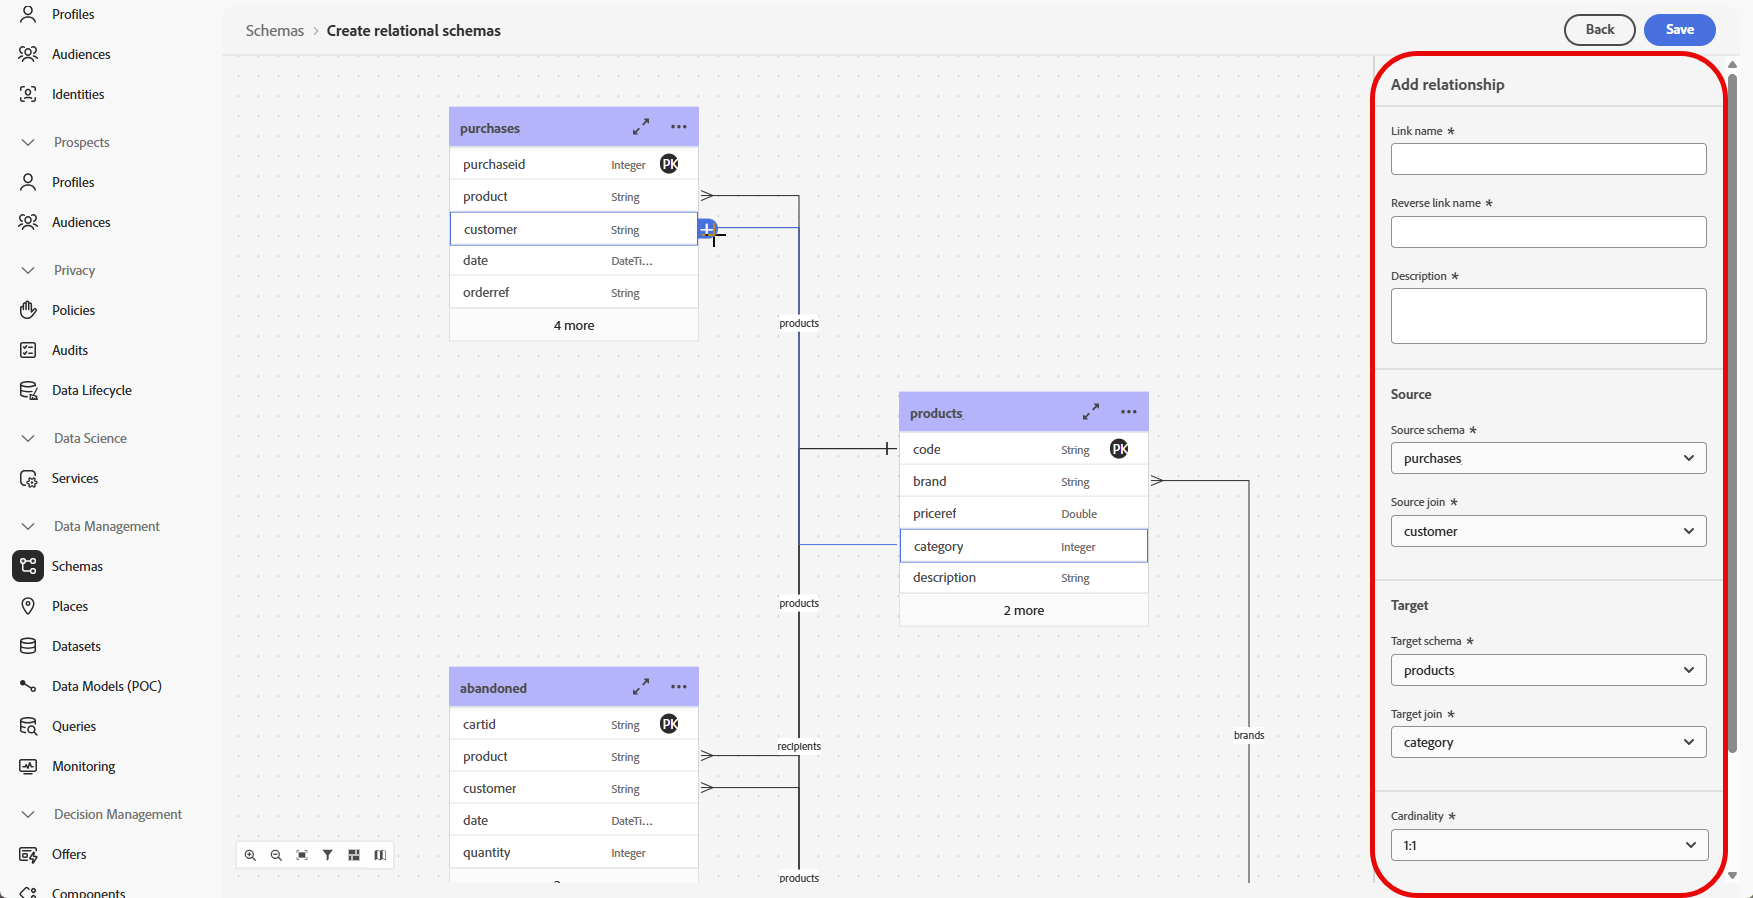
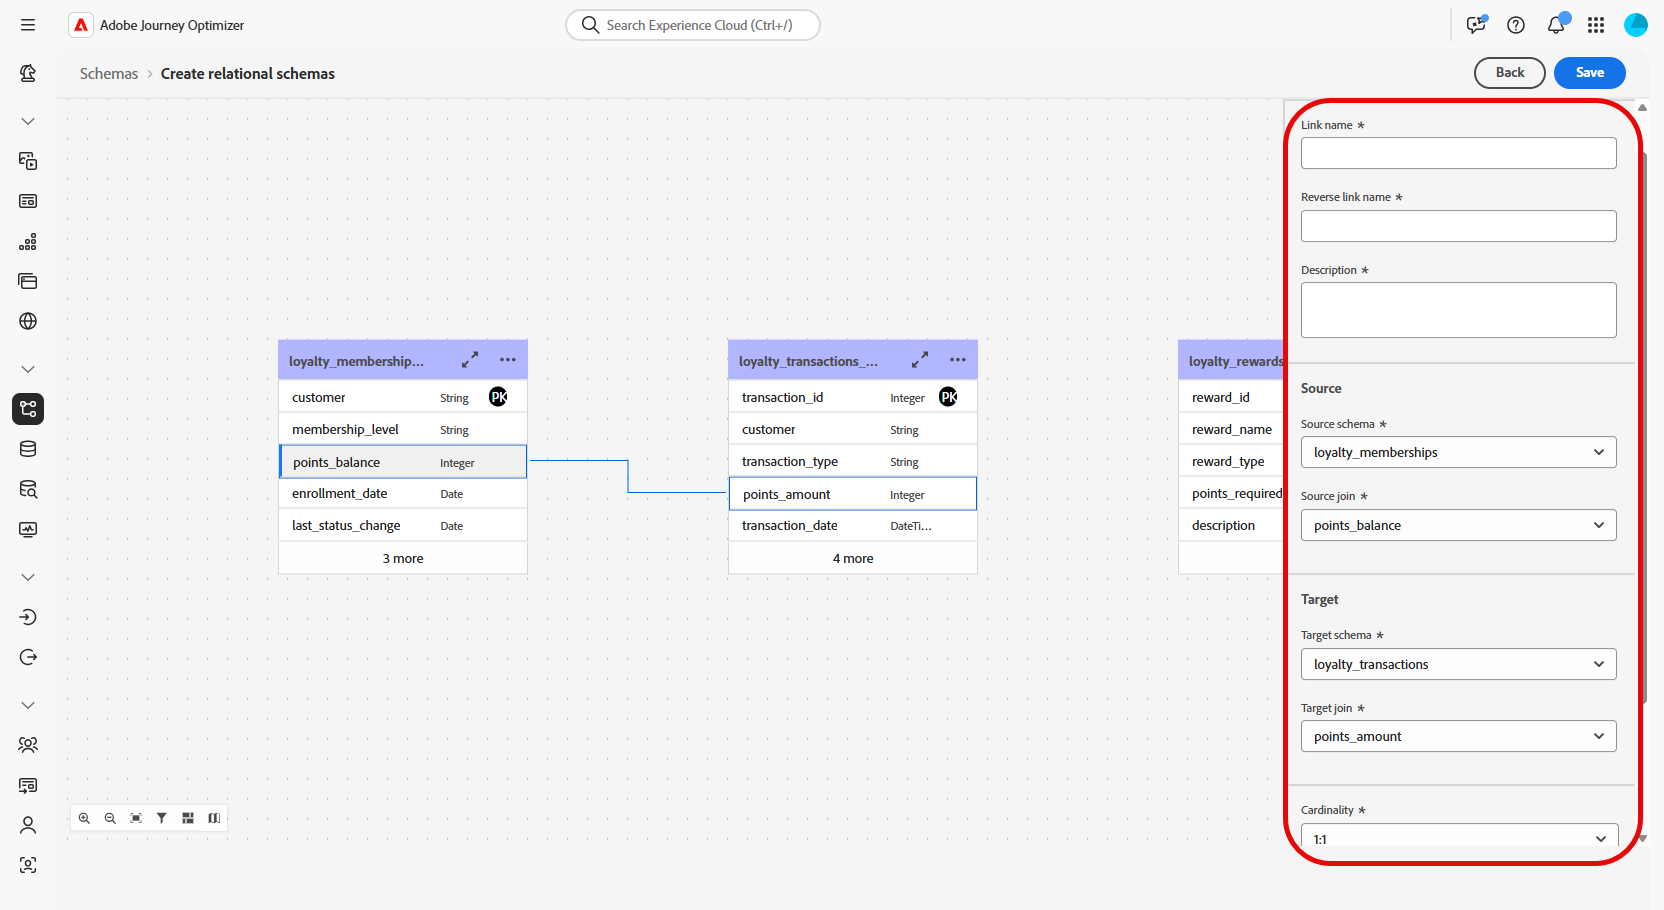
Relational schema / orchestrated campaign

diff --git a/help/using/orchestrated/configuration-steps.md b/help/using/orchestrated/configuration-steps.md
@@ -28,22 +28,29 @@ Documentation in progress
 
 >[!ENDSHADEBOX]
 
-<!--
+This guide walks you through the process of creating a relational schema, configuring a dataset for orchestrated campaigns, ingesting data via an S3 source, and querying the ingested data in the AP platform.
 
-This guide walks you through the process of creating a relational schema, configuring a dataset for orchestrated campaigns, ingesting data via an S3 source, and querying the ingested data in the AP platform. Each step is explained in detail with emphasis on why it is important.
+In this example, the setup includes integrating two key entities, **Loyalty Transactions** and **Loyalty Rewards**, and link them to existing core entities **Recipients** and **Brands**. 
 
+1. [Upload DDL File](#upload-ddl)
+    
+    Define the relational data model for orchestrated campaigns, including the **Loyalty Transactions** and **Loyalty Rewards** entities, along with required keys and versioning attributes.
 
-You have now:
+1. [Select Entities](#entities)
 
-- Created a relational schema
-- Configured a CDC-enabled dataset
-- Ingested data via S3
-- Scheduled and monitored a data flow
-- Queried the ingested data
+    Establish meaningful relationships between tables in your schema to create a cohesive and interconnected data model. 
 
-This setup is essential for running orchestrated AGO campaigns effectively and ensuring timely, accurate data synchronization.
+1. [Link schema](#link-schema)
 
-## Create a relational schema / (-) Upload DDL file 
+    Link the **Loyalty Transactions** entity to **Recipients**, and **Loyalty Rewards** to **Brands**, to build a connected data model that supports personalized customer journeys.
+
+1. [Ingest Data](#ingest)
+
+    Bring data into Adobe Experience Platform from supported sources like SFTP, cloud storage, or databases.
+
+## Upload DDL file {#upload-ddl}
+
+This section provides step-by-step guidance on how to create a relational schema within Adobe Experience Platform by uploading a DDL (Data Definition Language) file. Using a DDL file allows you to define the structure of your data model in advance, including tables, attributes, keys, and relationships. 
 
 1. Log in to the AP Platform.
 
@@ -66,27 +73,31 @@ This setup is essential for running orchestrated AGO campaigns effectively and e
 
 1. Drag and drop your DDL file and click **[!UICONTROL Next]**.
 
+1. Type-in your **[!UICONTROL Schema name]**.
+
 1. Set up each schema and its columns, ensuring that a primary key is specified. 
 
     One attribute, such as `lastmodified`, must be designated as a version descriptor. This attribute, typically of type `datetime`, `long`, or `int`, is essential for ingestion processes to ensure that the dataset is updated with the latest data version.
 
-1. Type-in your **[!UICONTROL Schema name]** and click **[!UICONTROL Done]**.
-
     ![](assets/admin_schema_2.png)
 
-Verify the table and field definitions within the canvas. [Learn more in the section below](#entities)
+1. Click **[!UICONTROL Done]** once done.
+
+You can now verify the table and field definitions within the canvas. [Learn more in the section below](#entities)
 
 ## Select entities {#entities}
 
-To create links between tables of your schema, follow these steps:
+To define logical connections between tables within your schema, follow the steps below.
 
 1. Access the canvas view of your data model and choose the two tables you want to link
 
 1. Click the ![](assets/do-not-localize/Smock_AddCircle_18_N.svg) button next to the Source Join, then drag and guide the arrow towards the Target Join to establish the connection.
 
+    ![](assets/admin_schema_5.png)
+
 1. Fill in the given form to define the link and click **Apply** once configured.
 
-    ![](assets/admin_schema_3.png)
+    ![](assets/toolbar.png)
 
     **Cardinality**:
 
@@ -97,6 +108,8 @@ To create links between tables of your schema, follow these steps:
     * **1-1**: one occurrence of the source table can have at most one corresponding occurrence of the target table.
 
 1. All links defined in your data model are represented as arrows in the canvas view. Click on an arrow between two tables to view details, make edits, or remove the link as needed.
+
+    ![](assets/admin_schema_6.png)
 
 1. Use the toolbar to customize and adjust your canvas.
 
@@ -120,31 +133,59 @@ To create links between tables of your schema, follow these steps:
 
     ![](assets/admin_schema_4.png)
 
-Doc AEP: https://experienceleague.adobe.com/en/docs/experience-platform/xdm/tutorials/create-schema-ui
+## Link schema {#link-schema}
 
-## Add data
+Establish a relationship between the **loyalty transactions** schema and the **Recipients** schema to associate each transaction with the correct customer record.
 
-1. Set up
+1. Navigate to **[!UICONTROL Schemas]** and open your previously create **loyalty transactions**.
 
-1. Connect existing or new account
+1. Click **[!UICONTROL Add Relationship]** from the Customer **[!UICONTROL Field properties]**.
 
-1. Select dataset fields
+    ![](assets/schema_1.png)
 
-1. Map desired source fields to target dataset fields
+1. Select **[!UICONTROL Many-to-One]** as the relationship **[!UICONTROL Type]**.
 
-1. 
+1. Link to the existing **Recipients** schema.
 
-## Set up sources
+    ![](assets/schema_2.png)
+
+1. Enter a **[!UICONTROL Relationship name from current schema]** and **[!UICONTROL Relationship name from reference schema]**.
+
+1. Click **[!UICONTROL Apply]** to save your changes.
+
+Continue by creating a relationship between the **loyalty rewards** schema and the **Brands** schema to associate each reward entry with the appropriate brand.
+
+![](assets/schema_3.png)
+
+## Ingest data {#ingest}
 
 Adobe Experience Platform allows data to be ingested from external sources while providing you with the ability to structure, label, and enhance incoming data using Experience Platform services. You can ingest data from a variety of sources such as Adobe applications, cloud-based storages, databases, and many others.
 
-6 sources compatible avec data relationel, tout ce qui est fichier (data storage), SFTP, azure blob, amazon S3, database cloud snowflake, 
+1. From the **[!UICONTROL Connections]** menu, access the **[!UICONTROL Sources]** menu.
 
+1. Select the **[!UICONTROL Cloud storage]** category then Amazon S3 and click **[!UICONTROL Add Data]**.
 
-![](assets/admin_sources_1.png)
+    ![](assets/admin_sources_1.png)
 
-https://experienceleague.adobe.com/en/docs/experience-platform/sources/ui-tutorials/create/local-system/local-file-upload
+1. Connect your S3 Account:
 
+    * With an existing account
+
+    * With a new account
+
+    [Learn more in Adobe Experience Platform documentation](https://experienceleague.adobe.com/en/docs/experience-platform/destinations/catalog/cloud-storage/amazon-s3#connect)
+
+    ![](assets/admin_sources_2.png)
+
+1. Navigate through the connected S3 source until you locate the two folders created earlier i.e. **loyalty rewards** and **loyalty transactions**.
+
+1. Click your folder. 
+
+    Selecting a folder ensures all current and future files with the same structure are auto-processed, while selecting a file requires manual updates for each new data increment.
+
+    ![](assets/s3_config_1.png)
+
+1. Choose your Data format and cick Next. 
 
 <!--manual
 ## Create a relational schema manual
